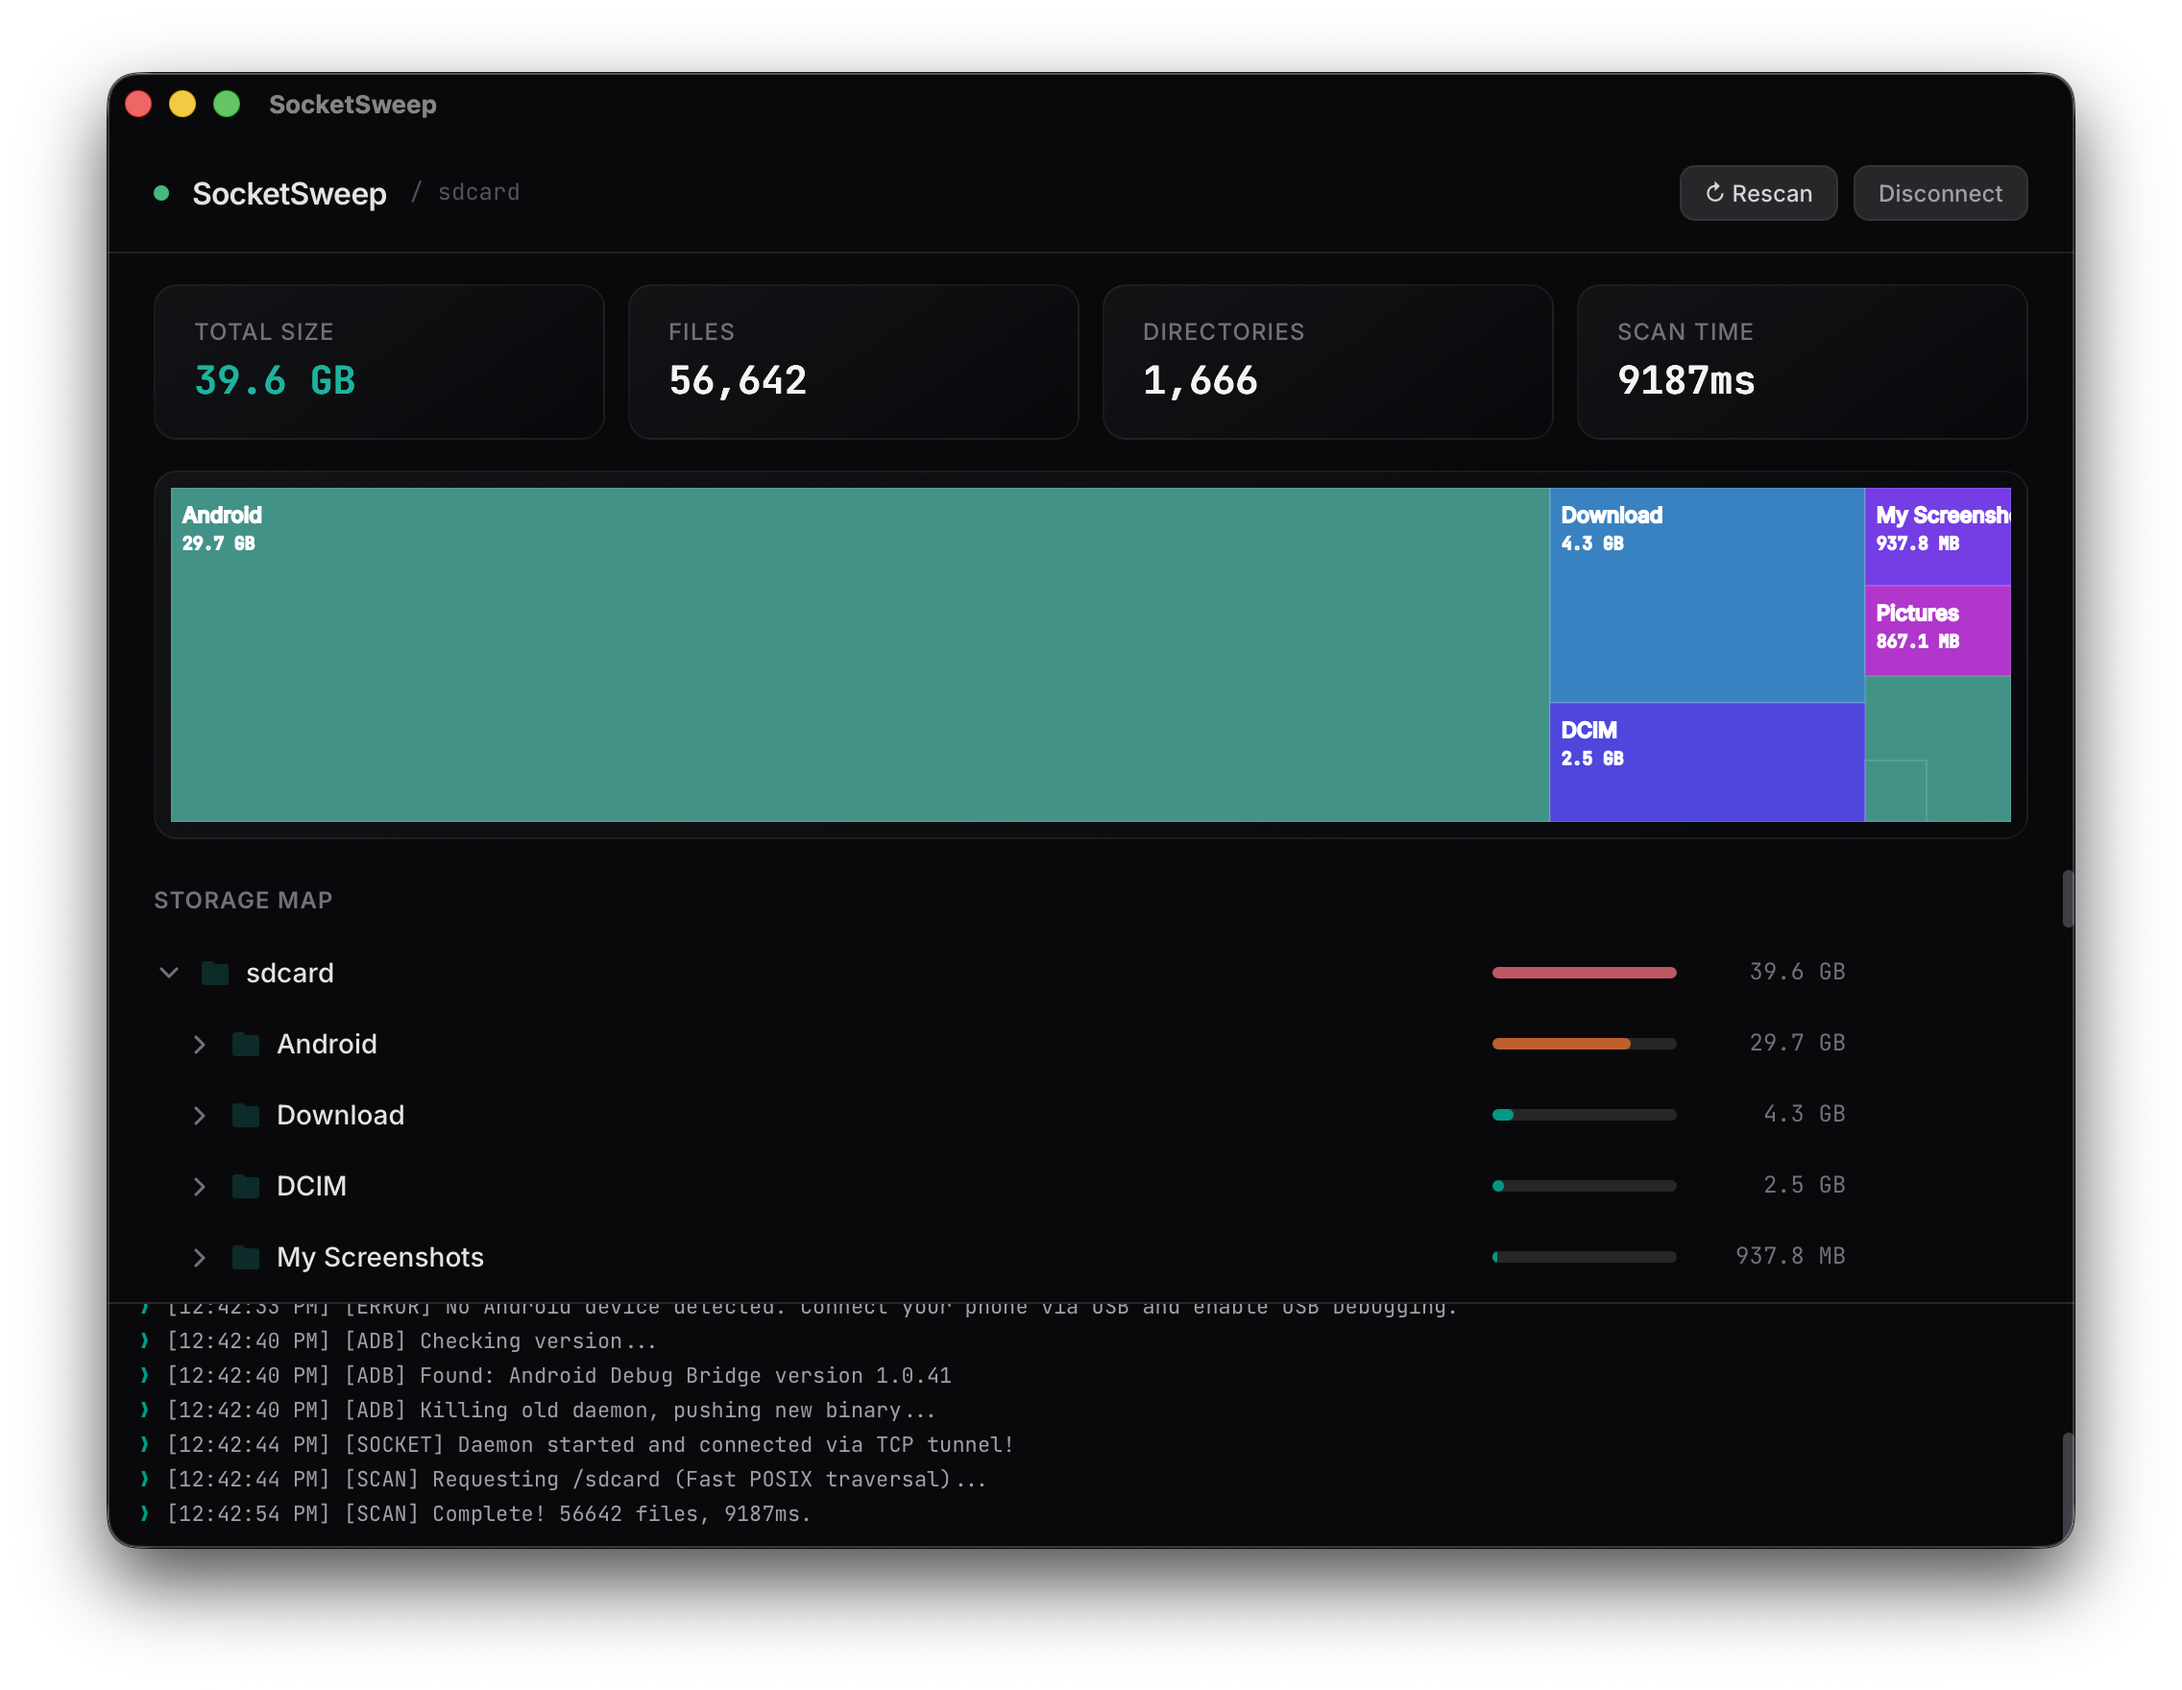
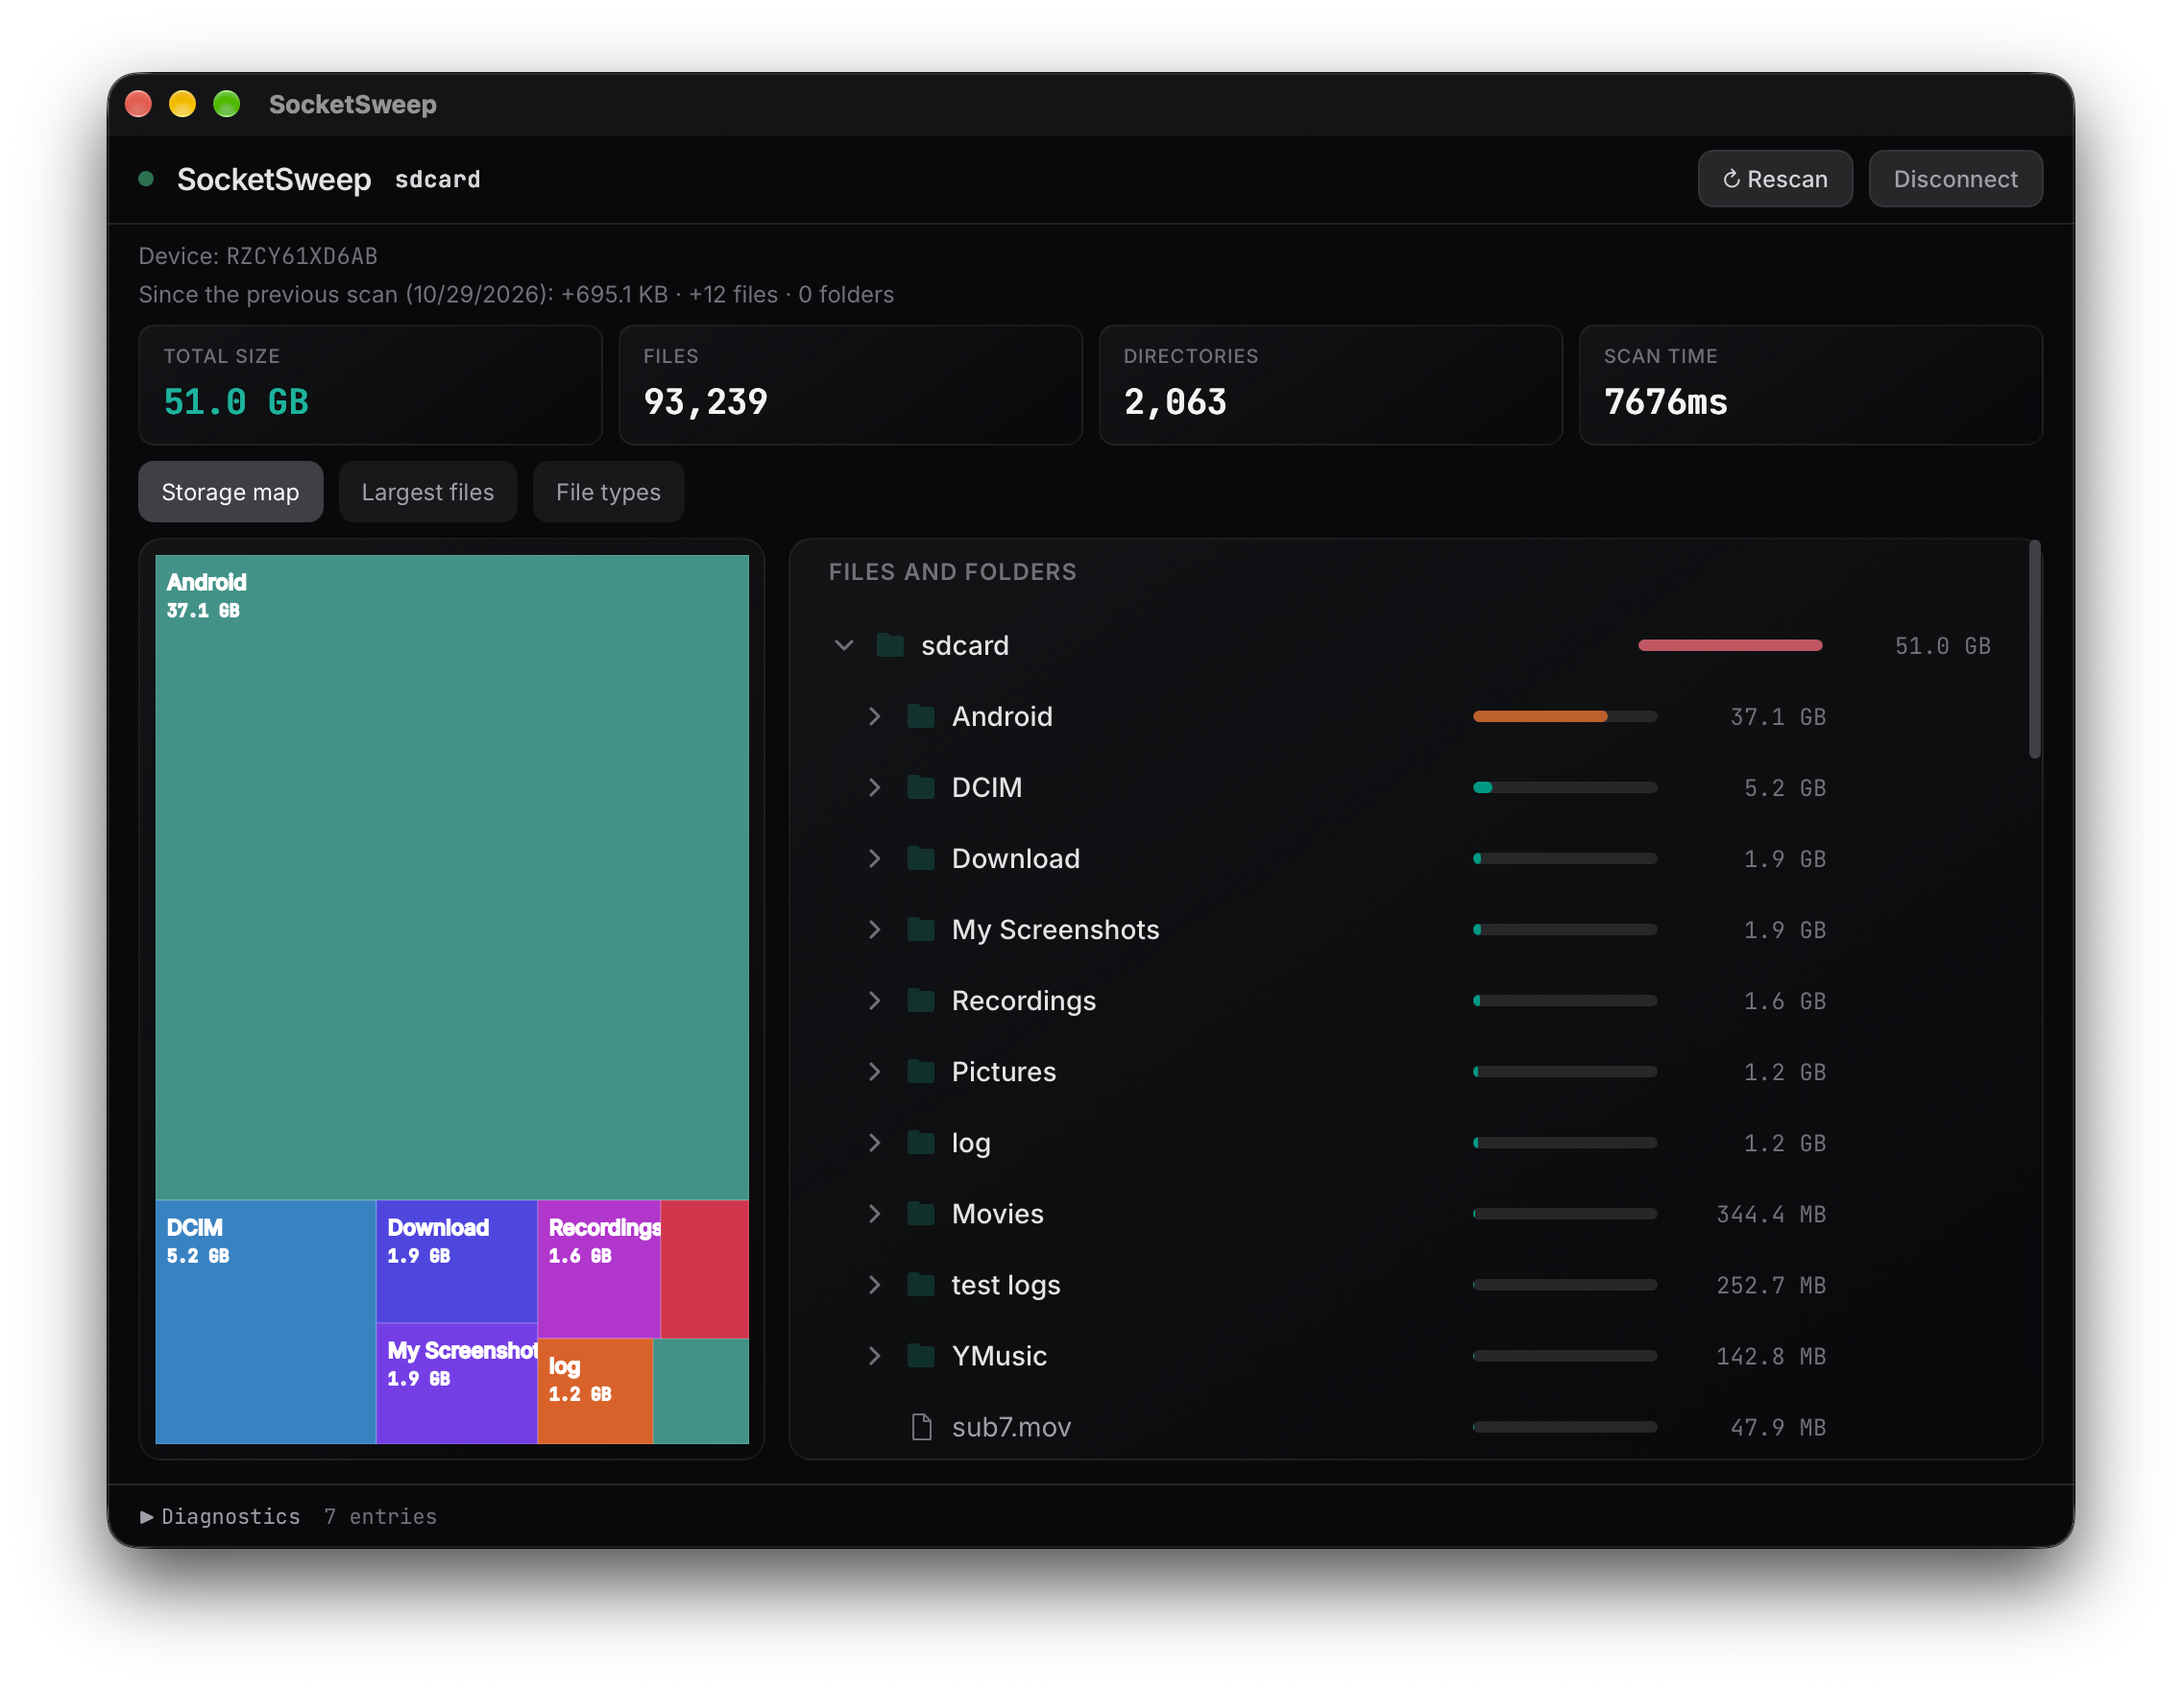
Refresh README screenshots for v1.2.0 (#114)

diff --git a/README.md b/README.md
@@ -59,8 +59,8 @@ For comparison, doing the same thing over MTP (plugging in the phone and browsin
 ## 📸 What It Looks Like
 
 <div align="center">
-  <img src="assets/ui.png" alt="SocketSweep Dashboard" width="45%" />
-  <img src="assets/tree.png" alt="SocketSweep Treemap" width="45%" />
+  <img src="assets/ui.png" alt="SocketSweep device setup" width="45%" />
+  <img src="assets/tree.png" alt="SocketSweep storage analysis" width="45%" />
   <br />
   <p><em>Left: Connection Dashboard | Right: Interactive Treemap — click any block to drill down</em></p>
 </div>
